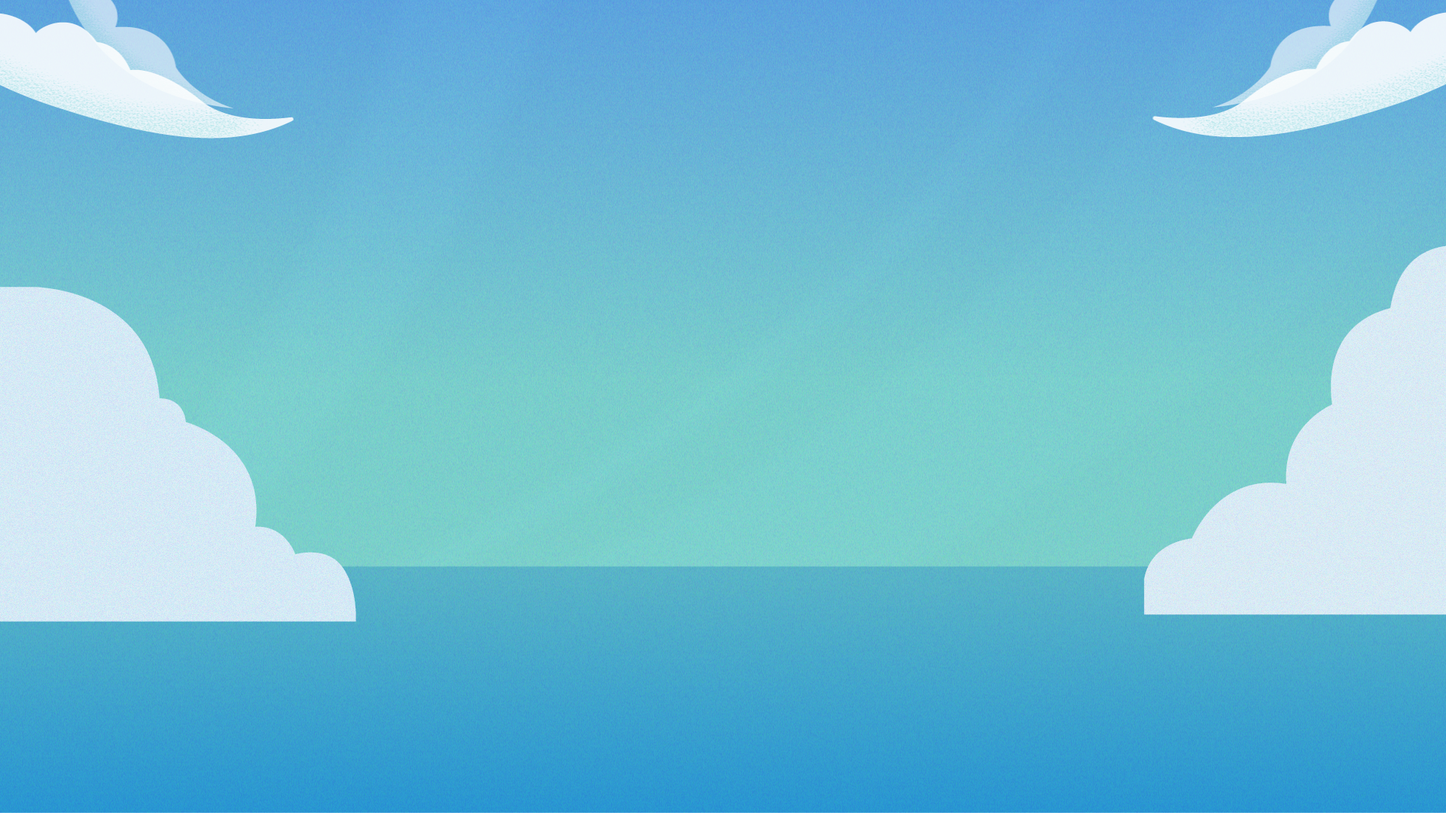
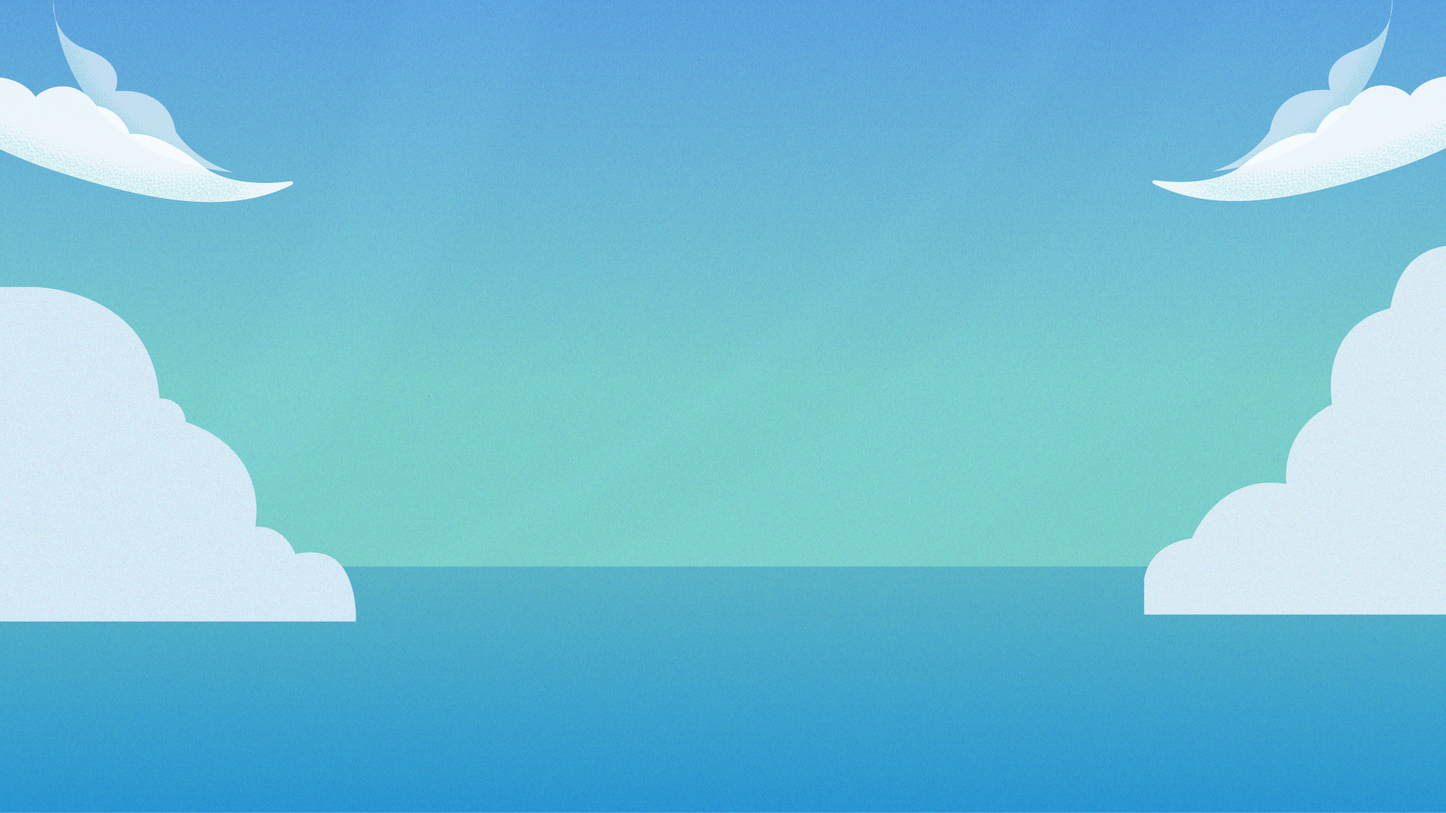
fix header

Changed region(s): [[0.0, 0.0, 0.2188, 0.275], [0.7812, 0.0, 1.0, 0.2444]]

diff --git a/frontend/src/components/common/background.component.jsx b/frontend/src/components/common/background.component.jsx
@@ -27,14 +27,14 @@ export default function Background() {
 
   return (
     <div 
-      className='w-screen h-screen overflow-hidden -z-10 bg-bgBase_Mobile min-[500px]:bg-bgBase_Tablet min-[1200px]:bg-bgBase bg-cover bg-center'
+      className='w-screen h-screen overflow-hidden -z-10 bg-bgBase_Mobile bg-top min-[500px]:bg-bgBase_Tablet min-[1200px]:bg-bgBase bg-cover max-[550px]:bg-top min-[1000px]:bg-center'
       onMouseMove={handleMouseMove}
     >
       <div
          className='hidden min-[1200px]:block absolute inset-0 bg-bgBase bg-cover bg-center'
       >
       <motion.div 
-        className="absolute inset-0 bg-animation_background_backward bg-cover bg-no-repeat bg-center"
+        className="absolute inset-0 bg-cover  bg-animation_background_backward bg-no-repeat bg-center top-10 bg-red-400"
         style={{ 
           x: backwardX,
           width: 'calc(100% + 80px)',

diff --git a/frontend/src/components/layout/Header.jsx b/frontend/src/components/layout/Header.jsx
@@ -2,7 +2,9 @@ import { Link } from "react-router-dom";
 
 const Header = () => {
     return (
-        <div className="absolute top-0 left-0 right-0 bg-black/10 bg-opacity-30 md:min-h-[100px] px-4">
+        <div className="absolute top-0 left-0 right-0 
+        
+         md:min-h-[100px] px-4">
             <div className="flex justify-between items-center py-3 gap-4 w-auto max-w-screen-xl mx-auto">
                 <Link
                     to="#"
